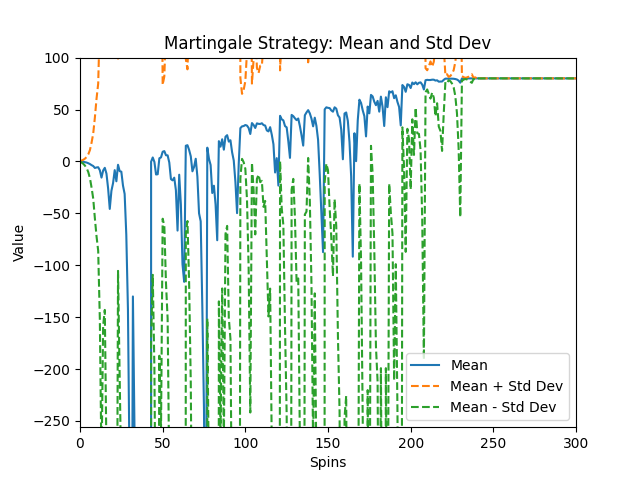
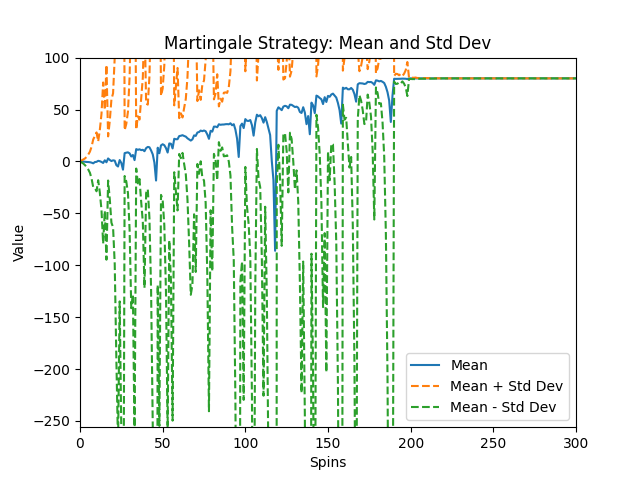
more changes

Changed region(s): [[0.125, 0.125, 0.9062, 0.9062]]

diff --git a/ml_trading/projs/1_proj/martingale_2025Spring/martingale/martingale.py b/ml_trading/projs/1_proj/martingale_2025Spring/martingale/martingale.py
@@ -138,7 +138,7 @@ def check_bet(bet, result):
     """
     Check the bet for the second experiment
     """
-    bet = min(bet, 256-result)
+    bet = min(bet, 256+result)
     return bet
 
 
@@ -155,7 +155,6 @@ def fig1(results):
     plt.ylabel('Value')
     plt.title('Martingale Strategy: All Episodes')
     plt.savefig('images/fig1.png')
-    # plt.show()
 
 
 def fig2(results, median=False, exp2=False):
@@ -169,6 +168,7 @@ def fig2(results, median=False, exp2=False):
     else:
         mean_values = np.median(results, axis=0)
     std_dev = np.std(results, axis=0)
+    print(std_dev)
     plt.figure()
     if not median:
         plt.plot(mean_values, label='Mean')
@@ -196,27 +196,28 @@ def fig2(results, median=False, exp2=False):
             plt.savefig('images/fig3.png')
         else:
             plt.savefig('images/fig3_median.png')
-    # plt.show()
 
 
 def test_code():  		  	   		 	 	 			  		 			     			  	 
     """  		  	   		 	 	 			  		 			     			  	 
     Method to test your code  		  	   		 	 	 			  		 			     			  	 
     """  		  	   		 	 	 			  		 			     			  	 
-    win_prob = 18/38  # 16 black numbers out of 38 numbers because 0 and 00 are green (American wheel)
+    win_prob = 18/38  # 18 black numbers out of 38 numbers because 0 and 00 are green (American wheel)
     # win_prob = 0.6
     np.random.seed(gtid())  # do this only once  		  	   		 	 	 			  		 			     			  	 
     print(get_spin_result(win_prob))  # test the roulette spin  		  	   		 	 	 			  		 			     			  	 
     # add your code here to implement the experiments  	
-    results = first_experiment(10, 1000, win_prob)
-    res2 = first_experiment(1000, 1000, win_prob)
-    fig1(results)
-    fig2(res2)
-    fig2(res2, median=True)
+    # results = first_experiment(10, 1000, win_prob)
+    # res2 = first_experiment(1000, 1000, win_prob)
+    # fig1(results)
+    # fig2(res2)
+    # fig2(res2, median=True)
 
     res3 = second_experiment(1000, 1000, win_prob)
     fig2(res3, exp2=True)
     fig2(res3, median=True, exp2=True)
+    count_over_79 = np.sum(res3[:, -1] == 80)
+    print(f"Number of episodes where the final value is over 79: {count_over_79}")
 
   		  	   		 	 	 			  		 			     			  	 
   		  	   		 	 	 			  		 			     			  	 
